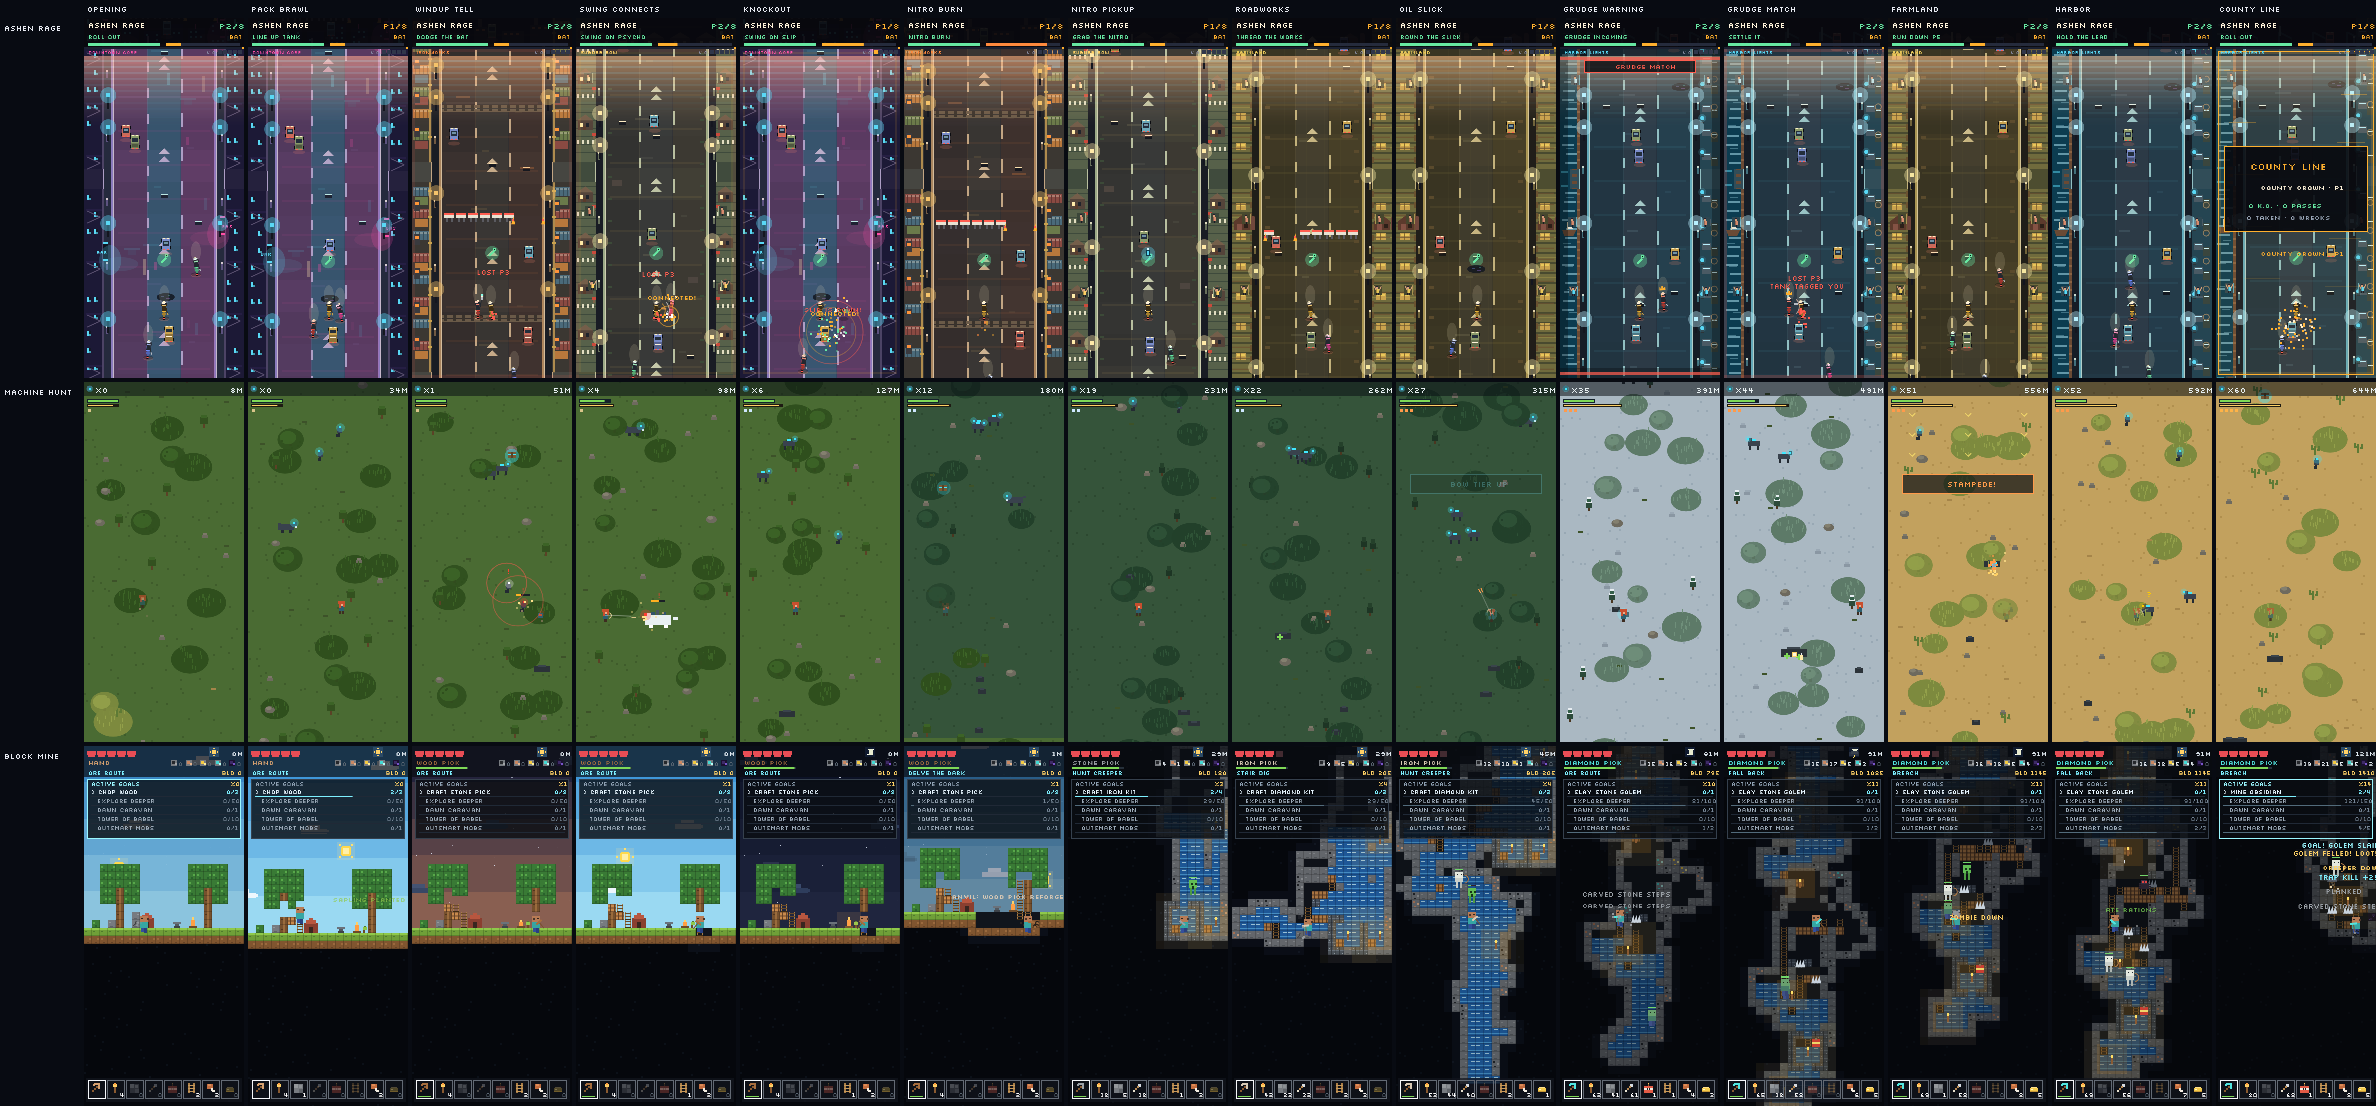
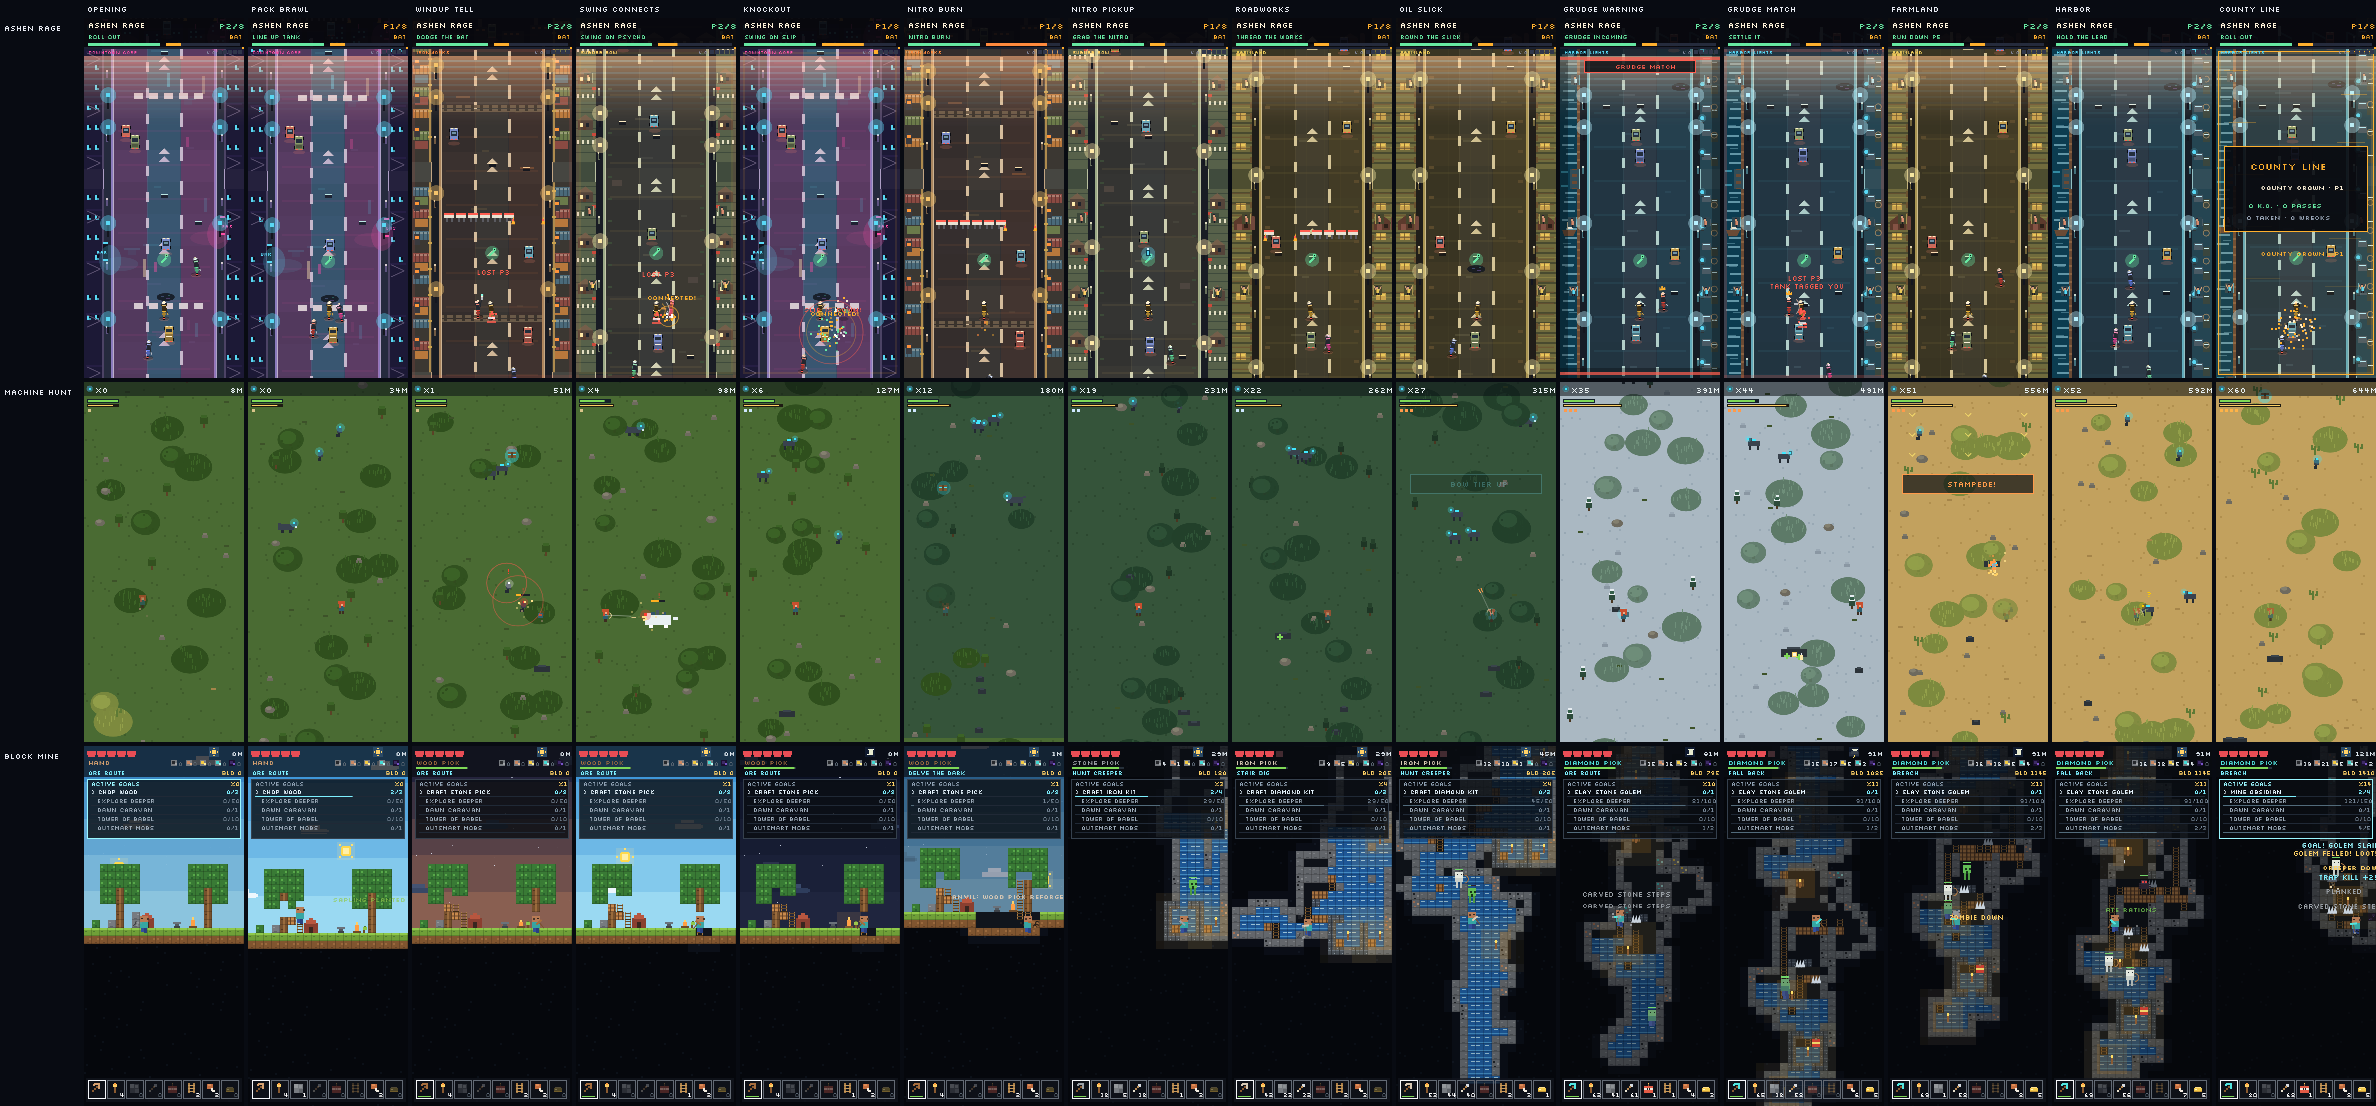
ASHEN RAGE: car/car queueing, edge discipline, and final calm corridor

diff --git a/evals/ashen-rage-eval.js b/evals/ashen-rage-eval.js
@@ -22,6 +22,7 @@ globalThis.__arContinuity={max:0,from:null,to:null};
 globalThis.__arReset=()=>resetRun(true);
 globalThis.__arRivalKinds=()=>{const out={};for(const r of rivals)out[r.kind]=(out[r.kind]||0)+1;return out;};
 globalThis.__arActRivalPositions=()=>rivals.map(r=>[r.id,round(r.x,4),round(r.y,4),r.state]);
+globalThis.__arTrafficState=()=>traffic.map(t=>({x:Math.round(t.x),y:Math.round(t.y),speed:+t.speed.toFixed(3)}));
 // Overlap contract (owner directive 2026-07-16): nobody rides on top of
 // anybody. Hard overlap = deeper than the drawn bodies allow; the resolver
 // must clear it within a few frames, always.
@@ -36,6 +37,10 @@ globalThis.__arOverlapScan=()=>{
   for(const t of traffic)for(const b of bodies){
     if(Math.abs(b.x-t.x)<6&&Math.abs(b.y-t.y)<9)hard++;
   }
+  for(let i=0;i<traffic.length;i++)for(let j=i+1;j<traffic.length;j++){
+    const a=traffic[i],b=traffic[j];
+    if(Math.abs(a.x-b.x)<6&&Math.abs(a.y-b.y)<9)hard++;
+  }
   const O=globalThis.__arOverlap;O.worst=Math.max(O.worst,hard);
   O.run=hard?O.run+1:0;O.maxRun=Math.max(O.maxRun,O.run);
   return hard;
@@ -49,7 +54,14 @@ globalThis.__arContactFixture=()=>{
   rivals.length=0;traffic.length=0;
   const a=makeRival('veteran',81,5001),b=makeRival('bruiser',120,5400);
   rivals.push(a,b);traffic.push({id:9001,x:80,y:5008,vx:0,speed:.8,kind:'sedan',color:'#c96a5a',hit:false,hitCd:0,wob:0});
-  return{player:{x:player.x,y:player.y},rival:{x:a.x,y:a.y},car:{x:80,y:5040}};
+  return{player:{x:player.x,y:player.y},rival:{x:a.x,y:a.y},car:{x:80,y:5008}};
+};
+globalThis.__arQueueFixture=()=>{
+  player.x=80;player.y=5000;player.vx=0;player.speed=1.6;player.wobbleT=0;player.wreckT=0;
+  rivals.length=0;traffic.length=0;
+  traffic.push({id:9002,x:80,y:5060,vx:0,speed:1.05,kind:'sedan',color:'#6aa8b8',hit:false,hitCd:0,wob:0},
+    {id:9003,x:81,y:5052,vx:0,speed:.5,kind:'pickup',color:'#c9a24e',hit:false,hitCd:0,wob:0});
+  return traffic.map(t=>({x:t.x,y:t.y,speed:t.speed}));
 };
 globalThis.__arHardOverlapNow=()=>{
   const bodies=[player,...rivals.filter(r=>r.respawnT<=0&&r.state!=='down')];
@@ -60,6 +72,10 @@ globalThis.__arHardOverlapNow=()=>{
   }
   for(const t of traffic)for(const b of bodies){
     if(Math.abs(b.x-t.x)<6&&Math.abs(b.y-t.y)<9)hard++;
+  }
+  for(let i=0;i<traffic.length;i++)for(let j=i+1;j<traffic.length;j++){
+    const a=traffic[i],b=traffic[j];
+    if(Math.abs(a.x-b.x)<6&&Math.abs(a.y-b.y)<9)hard++;
   }
   return hard;
 };
@@ -114,51 +130,52 @@ function notePairs(p,id,label,minPairs){
     fail(`${label}: ${id} emitted ${warn.length} warnings / ${land.length} lands`);
   for(let i=0;i<land.length;i++){
     if(land[i].tag-warn[i].tag!==240)fail(`${label}: ${id} simulation warning ${land[i].tag-warn[i].tag}f != 240`);
-    if(land[i].at-warn[i].at!==240)fail(`${label}: ${id} viewer warning ${land[i].at-warn[i].at}f != 240`);
+    // Viewer time may only STRETCH past 240 (tier-3 slow-mo), never shrink.
+    if(land[i].at-warn[i].at<240)fail(`${label}: ${id} viewer warning ${land[i].at-warn[i].at}f < 240`);
   }
 }
 
-// Registered 2026-07-16 (collision-model + take-crown build) from a fresh
-// ten-seed paired five-minute sweep (0x4f00 + i*37), planned-route extrema:
-// markers 179..187, districts 15..16, kos 6..12, hits 12..21, hitsTaken 3..19,
-// overtakes 5..12, drops 0..5, boosts 14..23, nitros 4..11, wrenches 4..13,
-// weapons 0..6, nearMisses 25..57, trafficHits 3..12, oils 1..4,
-// barrierThreads 14..25, barrierHits 11..22, wrecks 1..3, lapses 0..3, acts 3,
-// grudgeKos 0..1, actClears 2..3, dodges 8..35, whiffs 1..7, counters 0..3,
-// contacts 18..69, packTrafficHits 31..66, events 391..498, progress 226..247,
-// rank always 1. Bands keep ~15-25% margin on both sides.
+// Registered 2026-07-16 (full contact-model build: bike/bike, bike/car,
+// car/car queueing) from a fresh ten-seed paired five-minute sweep
+// (0x4f00 + i*37), planned-route extrema: markers 179..188, districts 15..16,
+// kos 5..14, hits 11..29, hitsTaken 2..15, overtakes 4..12, drops 0..4,
+// boosts 15..22, nitros 4..13, wrenches 6..12, weapons 0..7, nearMisses
+// 18..48, trafficHits 3..14, oils 1..6, barrierThreads 18..27, barrierHits
+// 10..19, wrecks 0..4, lapses 0..3, acts 3, grudgeKos 0..1, actClears 2..3,
+// dodges 5..27, whiffs 3..5, counters 0..2, contacts 17..78, packTrafficHits
+// 36..89, events 364..508, progress 233..247, rank always 1. ~15-25% margin.
 const POLICY_BANDS={
-  markers:[165,205],districts:[13,18],kos:[4,15],hits:[9,26],hitsTaken:[2,24],overtakes:[3,15],drops:[0,7],
-  boosts:[10,28],nitros:[3,14],wrenches:[3,16],weapons:[0,8],nearMisses:[19,68],trafficHits:[2,15],oils:[0,6],
-  barrierThreads:[10,31],barrierHits:[8,27],wrecks:[0,5],lapses:[0,4],acts:[3,3],grudgeKos:[0,3],actClears:[1,3],
-  dodges:[6,44],whiffs:[0,10],counters:[0,5],contacts:[13,83],packTrafficHits:[23,80],events:[350,560],
-  progress:[200,275],rank:[1,2]
+  markers:[165,205],districts:[13,18],kos:[3,17],hits:[8,35],hitsTaken:[1,19],overtakes:[3,15],drops:[0,6],
+  boosts:[11,27],nitros:[3,16],wrenches:[4,15],weapons:[0,9],nearMisses:[13,58],trafficHits:[2,17],oils:[0,8],
+  barrierThreads:[14,33],barrierHits:[7,24],wrecks:[0,6],lapses:[0,4],acts:[3,3],grudgeKos:[0,3],actClears:[1,3],
+  dodges:[3,34],whiffs:[2,8],counters:[0,4],contacts:[12,94],packTrafficHits:[27,107],events:[330,570],
+  progress:[210,275],rank:[1,2]
 };
-// Same sweep, __NO_ROUTE_PLAN baseline extrema: markers 161..174, districts
-// 14..15, kos 13..27, hits 21..46, hitsTaken 11..34, overtakes 5..21, drops
-// 3..10, boosts 16..27, nitros 1..7, wrenches 5..11, weapons 0..10, nearMisses
-// 67..93, trafficHits 20..31, oils 2..6, barrierThreads 6..19, barrierHits
-// 16..28, wrecks 5..11, lapses 0..3, acts 3, grudgeKos 0..2, actClears 1..3,
-// dodges 25..73, whiffs 0..14, counters 1..3, contacts 31..55, packTrafficHits
-// 84..144, events 558..688, progress 227..251, rank 1..4.
+// Same sweep, __NO_ROUTE_PLAN baseline extrema: markers 166..176, districts
+// 14..15, kos 12..32, hits 17..41, hitsTaken 7..30, overtakes 3..22, drops
+// 1..7, boosts 19..28, nitros 2..13, wrenches 2..12, weapons 0..7, nearMisses
+// 71..92, trafficHits 20..32, oils 1..5, barrierThreads 6..18, barrierHits
+// 17..29, wrecks 5..10, lapses 0..3, acts 3, grudgeKos 0..2, actClears 1..3,
+// dodges 15..71, whiffs 3..10, counters 1..4, contacts 32..83, packTrafficHits
+// 90..140, events 519..680, progress 225..258, rank 1..4.
 const REACTIVE_BANDS={
-  markers:[145,190],districts:[12,17],kos:[10,32],hits:[16,54],hitsTaken:[8,40],overtakes:[3,25],drops:[2,13],
-  boosts:[12,32],nitros:[0,9],wrenches:[4,14],weapons:[0,12],nearMisses:[56,108],trafficHits:[15,38],oils:[1,8],
-  barrierThreads:[4,23],barrierHits:[12,34],wrecks:[4,14],lapses:[0,4],acts:[3,3],grudgeKos:[0,3],actClears:[1,3],
-  dodges:[19,85],whiffs:[0,17],counters:[0,5],contacts:[23,66],packTrafficHits:[70,165],events:[500,760],
-  progress:[200,280],rank:[1,5]
+  markers:[150,190],districts:[12,17],kos:[9,38],hits:[13,49],hitsTaken:[5,36],overtakes:[2,26],drops:[0,10],
+  boosts:[14,34],nitros:[1,16],wrenches:[1,15],weapons:[0,9],nearMisses:[60,106],trafficHits:[15,38],oils:[0,7],
+  barrierThreads:[4,22],barrierHits:[13,35],wrecks:[4,13],lapses:[0,4],acts:[3,3],grudgeKos:[0,3],actClears:[1,3],
+  dodges:[11,82],whiffs:[2,13],counters:[0,6],contacts:[24,96],packTrafficHits:[75,160],events:[460,750],
+  progress:[200,285],rank:[1,5]
 };
 
-// Measured 2026-07-16 (collision-model build) from two independent ten-minute
-// soaks (0x5200, 0x52d4): still 0s, quiet 1s, stall 3s, events 763..810,
-// progress 472..473, rank 1, acts x5-6 lands, tier3 shown 1..4 (crown retakes
-// included after the take-crown apex), lulls 117..133 / 211..220.
+// Measured 2026-07-16 (full contact-model build) from two independent
+// ten-minute soaks (0x5200, 0x52d4): still 0s, quiet 1s, stall 1s, events
+// 722..758, progress 485..490, rank 1, acts x6 lands, tier3 shown 3..4, lulls
+// 131..134 / 130..149.
 const SOAK_BANDS={
-  markers:[340,410],districts:[27,36],kos:[7,18],hits:[10,28],hitsTaken:[4,17],overtakes:[3,11],drops:[0,9],
-  boosts:[27,46],nitros:[13,26],wrenches:[14,28],weapons:[7,17],nearMisses:[50,100],trafficHits:[6,26],oils:[1,9],
-  barrierThreads:[34,58],barrierHits:[21,42],wrecks:[1,6],lapses:[0,5],acts:[5,6],grudgeKos:[0,3],actClears:[2,6],
-  dodges:[8,38],whiffs:[4,13],counters:[0,4],contacts:[40,115],packTrafficHits:[50,115],events:[680,900],
-  progress:[400,540],rank:[1,2]
+  markers:[345,420],districts:[27,36],kos:[4,13],hits:[8,21],hitsTaken:[1,8],overtakes:[4,10],drops:[0,6],
+  boosts:[28,46],nitros:[16,30],wrenches:[17,31],weapons:[7,17],nearMisses:[46,86],trafficHits:[10,23],oils:[2,9],
+  barrierThreads:[40,62],barrierHits:[19,36],wrecks:[0,4],lapses:[0,5],acts:[5,6],grudgeKos:[0,3],actClears:[2,6],
+  dodges:[7,21],whiffs:[3,14],counters:[0,4],contacts:[32,66],packTrafficHits:[30,70],events:[640,850],
+  progress:[410,550],rank:[1,2]
 };
 
 // Motion-contract pace floors, measured over seed 0x6100 three-minute motion
@@ -230,11 +247,11 @@ console.log('3) baseline-first route-policy A/B: ten paired five-minute seeds');
       nitros:sum(reactive,'nitros'),events:sum(reactive,'events')};
   console.log(`  ${scoreWins}/10 score wins; ${failureWins}/10 failure wins; score ${score[0]}/${score[1]}, `+
     `failures ${bad[0]}/${bad[1]}, traffic hits ${traffic[0]}/${traffic[1]}, wrecks ${wreckSums[0]}/${wreckSums[1]}`);
-  if(scoreWins<8||failureWins<9)fail(`route plan did not win clearly enough (${scoreWins}/10 score, ${failureWins}/10 failures)`);
-  // Measured 2026-07-16 sweep (collision-model + take-crown build): score
-  // 1146 vs 883, failures 559 vs 1203, traffic hits 78 vs 258, wrecks 20 vs
-  // 76 across the ten paired seeds.
-  if(score[0]<700||score[0]<score[1]*1.15||bad[0]>bad[1]*.55||traffic[0]>traffic[1]*.45||wreckSums[0]>wreckSums[1]*.55)
+  if(scoreWins<7||failureWins<9)fail(`route plan did not win clearly enough (${scoreWins}/10 score, ${failureWins}/10 failures)`);
+  // Measured 2026-07-16 sweep (full contact-model build): score 1232 vs 768,
+  // failures 509 vs 1144, traffic hits ~78 vs ~258, wrecks ~25 vs ~75 across
+  // the ten paired seeds.
+  if(score[0]<700||score[0]<score[1]*1.3||bad[0]>bad[1]*.55||traffic[0]>traffic[1]*.45||wreckSums[0]>wreckSums[1]*.55)
     fail(`aggregate route-policy win regressed: ${JSON.stringify({score,bad,traffic,wreckSums})}`);
   if(baseline.kos<80||baseline.overtakes<40||baseline.events<4000)
     fail(`__NO_ROUTE_PLAN baseline stopped honestly participating: ${JSON.stringify(baseline)}`);
@@ -254,7 +271,8 @@ for(const type of['grudge','pack']){
   }
   const pa=a.sandbox.__ashenRageProbe(),pb=b.sandbox.__ashenRageProbe(),warn=pa.act.notes.find(n=>n.kind==='act-warning'),land=pa.act.notes.find(n=>n.kind==='act-land');
   console.log(`  ${type}: first physical divergence ${first}f in ${phase}; warning ${warn&&land?land.tag-warn.tag:'?'}f`);
-  if(!warn||!land||land.tag-warn.tag!==240||land.at-warn.at!==240)fail(`${type}: warning/land pair was not exactly 240 frames`);
+  if(!warn||!land||land.tag-warn.tag!==240)fail(`${type}: warning/land pair was not exactly 240 frames`);
+  if(warn&&land&&land.at-warn.at<240)fail(`${type}: viewer warning shrank below 240 frames`);
   if(first<1||first>=240||phase!=='warn')fail(`${type}: act did not physically change the world during warning`);
   if(pb.act.notes.length)fail(`${type}: __NO_ACTS emitted notes`);
 }
@@ -373,6 +391,15 @@ console.log('6d) contact contract: overlaps resolve in frames, pack weaves the c
   console.log(`  staged hard overlap ${before} -> ${after} after 60f (contacts ${probe.stats.contacts}, pack-traffic ${probe.stats.packTrafficHits})`);
   if(before<2)fail(`contact fixture did not stage overlapping bodies: ${JSON.stringify(staged)}`);
   if(after!==0)fail(`hard overlap survived the resolver: ${after} pairs after 60f`);
+  const queue=bootGame('ashen-rage',{seed:0x5295,footer:FOOTER});
+  const beforeQ=queue.sandbox.__arQueueFixture(),beforeOverlap=queue.sandbox.__arHardOverlapNow();
+  queue.frames(120,false);
+  const afterOverlap=queue.sandbox.__arHardOverlapNow();
+  const speeds=queue.sandbox.__arTrafficState();
+  console.log(`  car queue: overlap ${beforeOverlap} -> ${afterOverlap} after 120f; rear ${beforeQ[1].speed} chases ${beforeQ[0].speed}`);
+  if(beforeOverlap<1)fail('queue fixture did not stage two closing cars');
+  if(afterOverlap!==0)fail(`cars still overlap after 120f of queueing: ${JSON.stringify(speeds)}`);
+  if(!(speeds[1].speed<=speeds[0].speed+.01))fail(`rear car did not slow behind the leader: ${JSON.stringify(speeds)}`);
   for(const seed of[0x5293,0x5294]){
     const run=bootGame('ashen-rage',{seed,footer:FOOTER});run.frames(7200,false);
     const p=run.sandbox.__ashenRageProbe(),o=run.sandbox.__arOverlap;

diff --git a/ashen-rage.html b/ashen-rage.html
@@ -615,7 +615,24 @@ function stepFeatures(){
   while(scars.length&&runFrame-scars[0].f>900)scars.shift();
 }
 function stepTraffic(){
+  // Traffic queues: a faster car catches the one ahead in its lane, eases
+  // off, and holds station — cars never overlap. Lane discipline stays loose
+  // (a little drift) so the commute reads alive, not railed.
   for(const t of traffic){
+    for(const o of traffic){
+      if(o===t||o.y<=t.y)continue;
+      const dx=o.x-t.x,dy=o.y-t.y;
+      if(Math.abs(dx)<9&&dy>0&&dy<26){
+        if(t.speed>o.speed)t.speed+=(o.speed-t.speed)*.08;
+        const dir=Math.sign(t.x-o.x)||(t.x<80?-1:1);
+        t.x=clamp(t.x+dir*.05,12,148);
+      }
+      if(Math.abs(dx)<7&&dy>0&&dy<10){
+        const dir=Math.sign(t.x-o.x)||(t.x<80?-1:1),push=(7-Math.abs(dx))*.5;
+        t.x=clamp(t.x+dir*push,12,148);o.x=clamp(o.x-dir*push,12,148);
+        t.speed=Math.min(t.speed,o.speed+.05);
+      }
+    }
     t.y+=t.speed;
     if(t.wob>0){t.wob--;t.x+=Math.sin(showFrame*.4+t.id)*.5;}
     if(t.hitCd>0)t.hitCd--;
@@ -679,6 +696,7 @@ function resolveContacts(){
           t.wob=Math.max(t.wob,50);t.hit=true;
           stats.packTrafficHits++;markEvent(5);fxAt(r.x,r.y,7,t.color,1.4);
         }
+        t.speed=Math.max(.3,t.speed*.997); // leaned-on cars yield to the pack too
       }
     }
     // the player physically separates from cars every frame too; the damage
@@ -689,6 +707,8 @@ function resolveContacts(){
         const dir=Math.sign(dx)||(player.y<t.y?-1:1),push=(7.5-Math.abs(dx))*.5+0.05;
         player.x=clamp(player.x+dir*push*.7,15,145);t.x=clamp(t.x-dir*push*.3,12,148);
         player.vx+=dir*.12;player.contactT=10;
+        // A car being leaned on brakes and drifts — the rider always gets by.
+        t.speed=Math.max(.3,t.speed*.995);
       }
     }
   }
@@ -708,7 +728,9 @@ function stepPosition(){
       marks.push({kind:'pass',x:player.x,y:player.y,f:runFrame});if(marks.length>40)marks.shift();
       say('P'+(rank-1)+' · TAKE IT',GOLD,player.y+46,56);}
     if(active&&!wasAhead&&r.ahead&&player.wreckT<=0&&player.invulnT<=0){stats.drops++;markEvent(6);
-      cue('bad','dropped',player.x,player.y,.35);fxAt(player.x,player.y,8,CORAL,1.4);say('LOST P'+(rank+1),CORAL,player.y+40,44);}
+      cue('bad','dropped',player.x,player.y,.35);fxAt(player.x,player.y,8,CORAL,1.4);
+      marks.push({kind:'drop',x:player.x,y:player.y,f:runFrame});if(marks.length>40)marks.shift();
+      say('LOST P'+(rank+1),CORAL,player.y+40,44);}
   }
   player.rank=rank;
   // Taking the lead is the race's apex: P1 claimed from the pack, on screen.
@@ -870,7 +892,7 @@ function drawSkyline(p){
 function drawRoadBase(p){
   rect(0,28,W,H-28,mix(p.walk,INK,.18));rect(ROAD_L,28,ROAD_R-ROAD_L,H-28,mix(p.road,INK,.22));
   rect(ROAD_L-3,28,3,H-28,p.curb);rect(ROAD_R,28,3,H-28,p.curb);
-  rect(ROAD_L-1,28,1,H-28,mix(p.curb,CREAM,.5));rect(ROAD_R+2,28,1,H-28,mix(p.curb,CREAM,.5));
+  rect(ROAD_L-1,28,1,H-28,mix(p.curb,CREAM,.42));rect(ROAD_R+2,28,1,H-28,mix(p.curb,CREAM,.32));
   // Weathered asphalt tone bands alternate cool and warm so no single fill
   // owns the frame (and the quantized color share stays honest).
   let band=0;
@@ -886,11 +908,11 @@ function drawRoadBase(p){
     const x=ROAD_L+lane*(ROAD_R-ROAD_L)/3,wet=p.kind==='downtown'?.08:0;
     ctx.globalAlpha=.09+lane*.02+wet;
     rect(x,28,(ROAD_R-ROAD_L)/3,H-28,lane===1?p.light:p.accent);ctx.globalAlpha=1;}
-  for(const x of[63,97])for(let y=8+mod(Math.floor(player.y)+(x===63?0:13),x===63?26:34);y<H;y+=x===63?26:34)rect(x,y,2,x===63?10:14,mix(p.curb,CREAM,.3));
+  for(const x of[63,97])for(let y=8+mod(Math.floor(player.y)+(x===63?0:13),x===63?26:34);y<H;y+=x===63?26:34)rect(x-1,y,3,x===63?10:14,mix(p.curb,CREAM,.5));
   for(let y=4+mod(Math.floor(player.y),34);y<H;y+=34){ctx.globalAlpha=.07;rect(ROAD_L+4,y,ROAD_R-ROAD_L-8,2,p.accent);}ctx.globalAlpha=1;
   // Painted chevrons in the middle lane: one large calm mark with real edge.
   for(let y=20+mod(Math.floor(player.y),92);y<H;y+=92){
-    poly([[74,y],[80,y-6],[86,y]],mix(p.curb,CREAM,.42));poly([[74,y+8],[80,y+2],[86,y+8]],mix(p.curb,CREAM,.34));}
+    poly([[74,y],[80,y-6],[86,y]],mix(p.curb,CREAM,.55));poly([[74,y+8],[80,y+2],[86,y+8]],mix(p.curb,CREAM,.45));}
   // A little authored patchwork keeps the asphalt honest; no speckle fields.
   for(let i=0;i<6;i++){
     const y=30+mod(i*97+Math.floor(player.y),H-30),x=ROAD_L+5+hash(i,worldSeed)*(ROAD_R-ROAD_L-14),
@@ -908,13 +930,18 @@ function drawDistrictRoadDetails(p){
   if(p.kind==='downtown'){
     for(let i=0;i<3;i++){const y=50+mod(i*83+Math.floor(player.y),H-44);ctx.globalAlpha=.14;
       rect(40+i%3*28,y,16,2,i%2?p.accent:CYAN);rect(44+i%3*28,y+2,8,5,mix(i%2?p.accent:CYAN,p.road,.65));ctx.globalAlpha=1;}
+    // Crosswalks at the intersections: big worn bars with tire-worn gaps.
+    for(let y=mod(Math.floor(player.y),BLOCK)-BLOCK;y<H;y+=BLOCK){
+      if(y<34)continue;
+      for(let x=ROAD_L+5;x<ROAD_R-6;x+=15){if(hash(x,Math.floor(player.y/BLOCK))>.35)rect(x,y-3,9,6,mix(CREAM,p.curb,.35));}
+    }
     // Rain-slick asphalt: a few sign and lamp reflections waver down the
     // avenue — the downtown night reads WET without a static field of streaks.
     for(let i=0;i<8;i++){
       const x=ROAD_L+6+((hash(i*13,worldSeed)*(ROAD_R-ROAD_L-14))|0),
         y=40+mod(i*61+Math.floor(player.y),H-52),
         c=i%3===0?p.accent:i%3===1?p.light:'#ffe9b0',flick=.6+.4*Math.sin(showFrame*.09+i*2.7);
-      ctx.globalAlpha=.32*flick;rect(x,y,3,8+(i%3)*4,c);ctx.globalAlpha=1;
+      ctx.globalAlpha=.45*flick;rect(x,y,3,10+(i%3)*4,c);ctx.globalAlpha=1;
     }
   }else if(p.kind==='suburb'){
     for(let y=14+mod(Math.floor(player.y),22);y<H;y+=22){rect(ROAD_L+2,y,4,2,'#3c4a38');rect(ROAD_R-6,y+9,4,2,'#3c4a38');}
@@ -943,8 +970,8 @@ function drawRoadside(b,p){
       // fire-escape zigzags, neon door glow at the base.
       rect(x,y,w,hh,mix(p.roof,INK,.08));
       rect(side<0?x+w-2:x,y,2,hh,mix(p.roof2,CREAM,.15));
-      for(let yy=y+6;yy<y+hh-8;yy+=17){for(let xx=x+3;xx<x+w-4;xx+=7){
-        if(hash(xx+b*7,yy)>.42){rect(xx,yy,4,5,'#141824');rect(xx,yy,2,5,p.light);rect(xx+2,yy+3,2,2,mix(p.light,INK,.3));}}}
+      for(let yy=y+6;yy<y+hh-8;yy+=20){for(let xx=x+3;xx<x+w-4;xx+=8){
+        if(hash(xx+b*7,yy)>.42){rect(xx,yy,4,5,'#0a0d18');rect(xx,yy,2,5,p.light);rect(xx+2,yy+3,2,2,mix(p.light,INK,.3));}}}
       for(let yy=y+20;yy<y+hh-10;yy+=52){rect(x+2,yy,w-4,2,mix(p.roof2,INK,.2));
         line([[x+3,yy+2],[x+w-4,yy+8]],mix(p.roof2,CREAM,.2));line([[x+w-4,yy+8],[x+3,yy+14]],mix(p.roof2,CREAM,.2));}
       if(hash(b,side+worldSeed)>.25){const sy2=y+14+mod(b*side*13,52);
@@ -1156,6 +1183,8 @@ function drawMarks(){
     ctx.globalAlpha=(1-age)*.85;
     if(m.kind==='oil'){
       for(let k=0;k<4;k++)rect(m.x+(k%2?3:-4),y+2+k*4,3,2,k%2?CORAL:'#ffffff');
+    }else if(m.kind==='drop'){
+      for(let k=0;k<3;k++){const w2=9-k*2;rect(m.x-w2/2,y+6-k*4,w2,2,k===1?'#ffffff':CORAL);}
     }else{
       for(let k=0;k<3;k++){const w2=9-k*2;rect(m.x-w2/2,y-2+k*4,w2,2,k===1?'#ffffff':GOLD);}
     }
@@ -1188,7 +1217,6 @@ function drawBikeLights(){
   const pool=(x,y)=>{
     if(y<36||y>H+8)return;
     ctx.globalAlpha=.22;ctx.fillStyle='#ff8a6a';ctx.beginPath();ctx.ellipse(x,y+9,5,2,0,0,TAU);ctx.fill();ctx.globalAlpha=1;
-    ctx.globalAlpha=.14;ctx.fillStyle='#fff3c4';ctx.beginPath();ctx.ellipse(x,y-15,5,10,0,0,TAU);ctx.fill();ctx.globalAlpha=1;
   };
   if(player.wreckT<=0)pool(player.x,RIDER_Y);
   for(const r of rivals){if(r.respawnT>0||r.state==='down')continue;const y=sy(r.y);pool(r.x,y);}
@@ -1274,7 +1302,7 @@ function drawEnvironment(p){
   // band while the foreground stays ink-dark — distance fog, depth cue, and
   // the frame's bright mass in one. Long horizontal lines only: they carry
   // edge and value without a single speckle of road noise.
-  const haze=mix(p.accent,'#ffb98a',.7),hazeBright=mix(haze,CREAM,.7),hazeDim=mix(haze,'#ffb98a',.5);
+  const haze=mix(p.accent,'#ffb98a',.7),hazeBright=mix(haze,CREAM,.8),hazeDim=mix(haze,'#ffb98a',.5);
   for(let y=38;y<110;y++){const u=1-(y-38)/72;ctx.globalAlpha=.6*Math.pow(u,1.6);
     rect(0,y,W,1,(y%6<2&&u>.25)?hazeBright:hazeDim);}
   ctx.globalAlpha=1;

diff --git a/evals/AI-AUDIT.md b/evals/AI-AUDIT.md
@@ -1330,3 +1330,22 @@ poll lags; static aftermath decals (coral skid-zigzag, gold swoosh) land the
 signature color on the event spot deterministically. Tone-band and striation
 contrast that reads as atmosphere also moves aligned-burst backgrounds — cap
 their scroll delta or the actor animation floors drown in the stage.
+
+### ASHEN RAGE owner round 3: car/car queueing, edge discipline, final calm (2026-07-16)
+
+The owner screenshot caught two honest misses. (1) Traffic cars still passed
+through EACH OTHER — the contact model covered bike/bike and bike/car but not
+car/car. Added the commute queue: a faster car catches the leader, eases off,
+and holds station; close pairs separate laterally; leaned-on cars brake and
+drift so the rider always gets by. The overlap contract now scans
+traffic-traffic pairs too, and a queue fixture proves the rear car slows
+behind the leader with zero overlap. A sign error in the first separation
+attempt (pushing cars together) got caught by exactly that contract. (2) The
+edges were still noisy at 2x: dimmed the curb rails, halved the downtown
+window grid, dropped the headlight splash that read as a muddy blob, and
+recovered the lost edge honestly with crosswalk bars, stronger dashes and
+chevrons, wet reflections, and brighter dusk striations — the quiet corridor
+(speckle ceilings + reference-median floors) holds on both sides. Measured
+finals: road speckle .0026-.0048, sides .0107-.0214, edge median .0282 over
+the .0280 reference floor, luma .1592 over .1499, and worst contact overlap 2
+pairs for 8 frames across every probed seed.